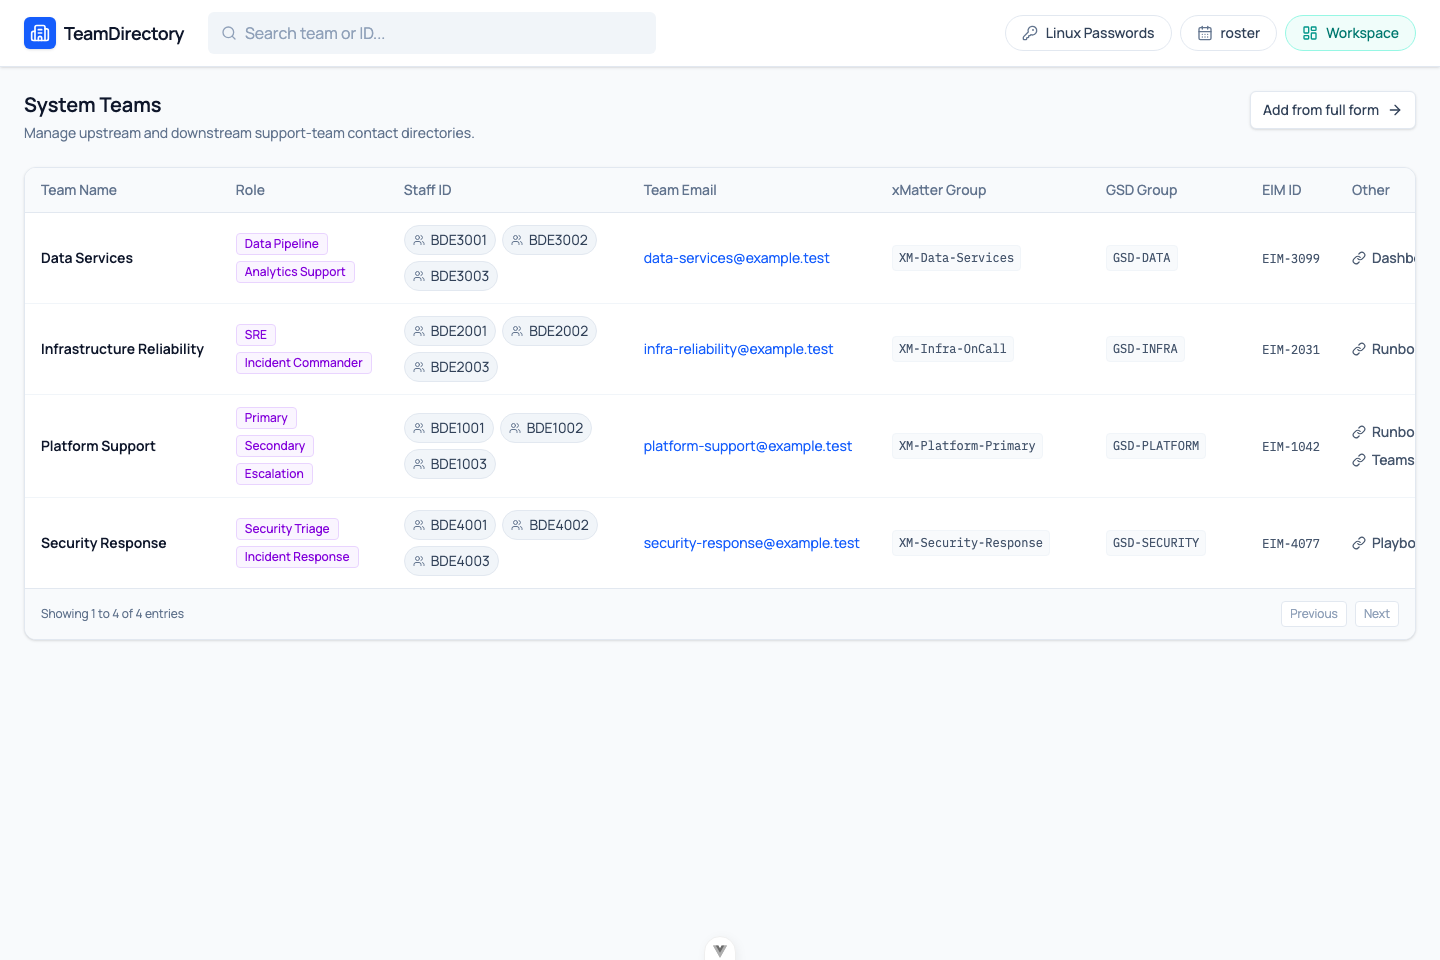
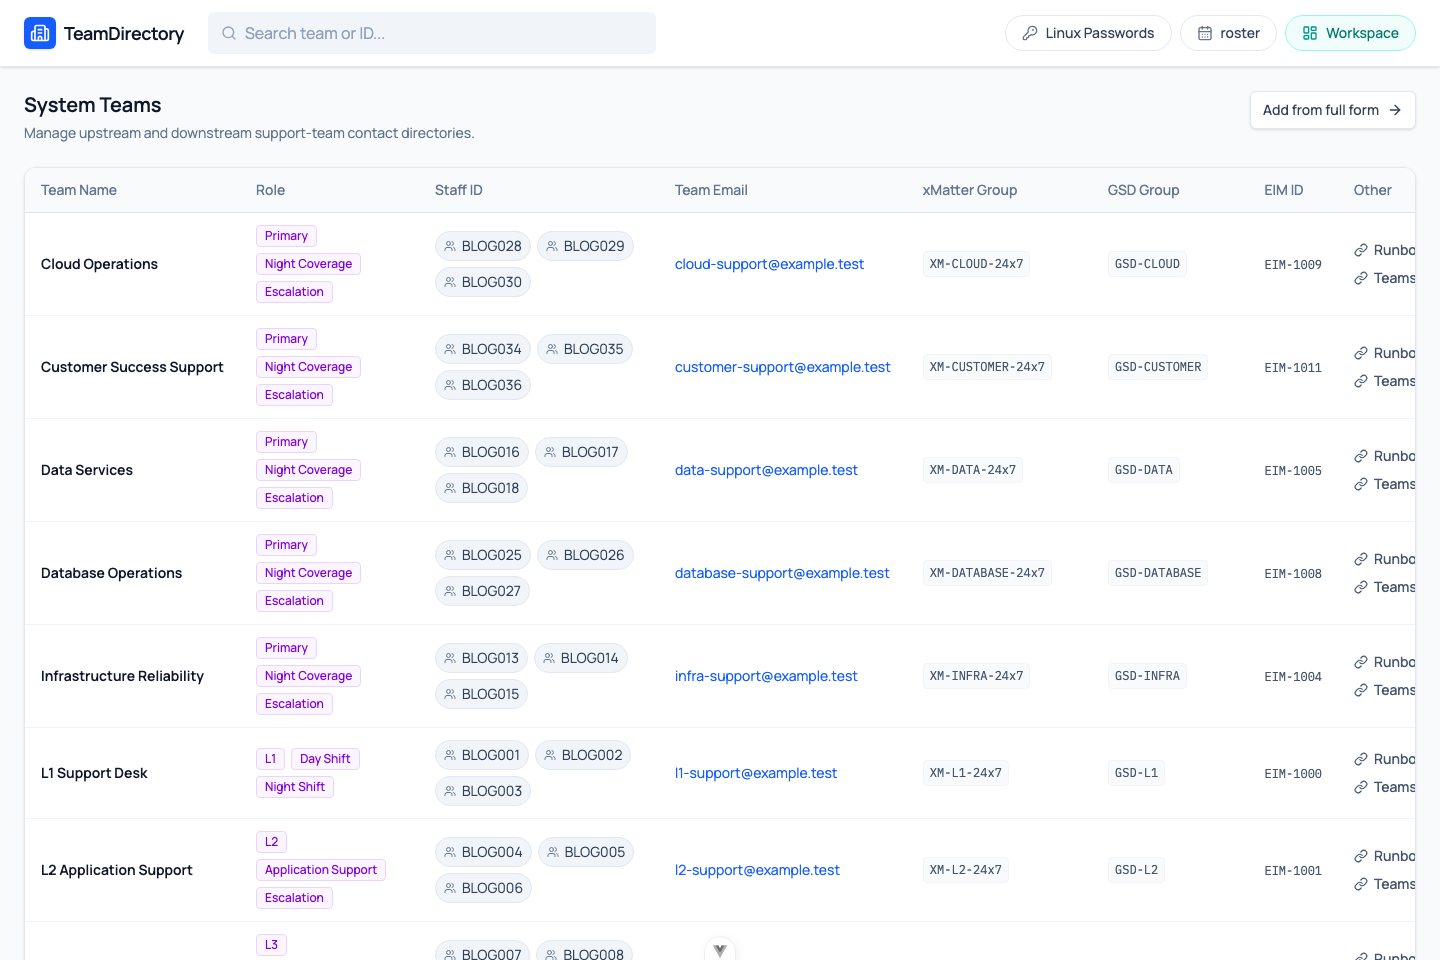
Polish support platform blog

diff --git a/docs/blog/support-platform-vibe-coding.zh-CN.md b/docs/blog/support-platform-vibe-coding.zh-CN.md
@@ -1,16 +1,16 @@
-# 🛡 用 100% Vibe Coding 做了一个值班排班展示平台
+# 🛡 Support Platform：值班排班展示平台的产品与工程实践
 
 > 从“谁今天值班？”到“打开看板就知道”：一个面向技术支持、运维、平台团队和任何固定值班团队的排班平台实践。
 
-![公开排班看板](/Users/lzn/.codex/worktrees/3884/support/docs/assets/blog/support-platform-vibe-coding/public-viewer.png)
+![公开排班看板](../assets/blog/support-platform-vibe-coding/public-viewer.png)
 
 ## 简介
 
-如果你的团队也有固定技术支持、On-call、二线支持、升级处理人，应该对这些场景很熟：排班表散落在 Excel、聊天群、Wiki；临时换班靠口头同步；外部同事想找支持人时，不知道看哪一个版本；月底复盘时，又很难判断排班是否真的完整。
+如果你的团队也有固定技术支持、On-call、二线支持或升级处理人，应该对这些场景很熟：排班表散落在 Excel、聊天群、Wiki；临时换班靠口头同步；外部同事想找支持人时，不知道看哪一个版本；月底复盘时，又很难判断排班是否真的完整。
 
 所以我做了一个 **Support Platform**：一个完整的值班排班管理与公开展示平台。它既能给所有人看“今天谁值班”，也能给管理员维护团队、人员、班次、月度排班、联系人信息和校验问题。
 
-更有意思的是，这个产品是 **100% vibe coding** 做出来的。不是“先写三个月详细方案再动手”，而是围绕真实痛点，一边对话、一边设计、一边实现、一边用浏览器验证。需求从一句“我们需要一个排班展示平台”开始，最后长成了一个有公开看板、排班工作台和自动化测试的完整系统。🚀
+> 说明：这个产品的 UI 设计、代码实现、文档、测试，以及这篇博客本身，都由 AI 生成并在人工审阅下迭代完成。下面主要聊产品能力、工程实现和验证链路。
 
 ## 为什么需要这样的平台？
 
@@ -28,21 +28,21 @@
 
 ### 1. 公开排班看板：不用登录也能回答“今天找谁”
 
-公开看板按团队展示当天值班覆盖，并带有日期、时区和当前时间线。对其它部门来说，它就是一个统一入口：不用翻群消息，不用问“最新版排班表在哪”，打开页面就能看到当前应该找谁。
+公开看板按团队展示当天值班覆盖，并带有日期、时区和当前时间线。新的演示数据里，L1、L2、L3 以及多个支持团队都有白班和夜班覆盖，保证一天 24 小时都能看到当前负责人。对其它部门来说，它就是一个统一入口：不用翻群消息，不用问“最新版排班表在哪”，打开页面就能看到当前应该找谁。
 
-![公开排班看板](/Users/lzn/.codex/worktrees/3884/support/docs/assets/blog/support-platform-vibe-coding/public-viewer.png)
+![公开排班看板](../assets/blog/support-platform-vibe-coding/public-viewer.png)
 
 ### 2. 月度排班：像表格一样直观，但背后是结构化数据
 
 月度排班页面保留了大家熟悉的表格心智：左边是人员和团队，右边是日期格子，班次 code 用不同颜色呈现。管理员可以导入、复制上月、导出、保存修改，也能直接看到校验提醒。
 
-![月度排班](/Users/lzn/.codex/worktrees/3884/support/docs/assets/blog/support-platform-vibe-coding/monthly-roster-planner.png)
+![月度排班](../assets/blog/support-platform-vibe-coding/monthly-roster-planner.png)
 
 ### 3. 联系人目录：排班之外，还要知道怎么升级
 
 很多支持场景里，“谁值班”只是第一步。真正处理问题时，还需要团队邮箱、xMatter group、GSD group、EIM ID、Runbook、Teams Channel 等信息。联系人目录把这些信息放到一个独立入口，让跨部门协作更顺。
 
-![联系人目录](/Users/lzn/.codex/worktrees/3884/support/docs/assets/blog/support-platform-vibe-coding/contact-information.png)
+![联系人目录](../assets/blog/support-platform-vibe-coding/contact-information.png)
 
 ## 实现方案
 
@@ -72,9 +72,32 @@ Support Platform
     └── Playwright smoke and regression tests
 ```
 
-## 自动化测试：把 Vibe Coding 变成可回归流程
+## GitHub 链接
 
-这次开发里，自动化测试不是最后补上的“保险丝”，而是产品演进的一部分。我的目标很明确：AI 可以帮我更快做功能，但每个新功能都要能被后续自动化验证接住。
+项目按 superproject + submodule 的方式组织，方便前后端独立演进，也方便在父仓库里统一维护脚本、文档、自动化测试和截图资产。
+
+- 主仓库：[support-platform](https://github.com/yachi666/support-platform)
+- 后端服务：[support-roster-server](https://github.com/yachi666/support-roster-server)
+- 前端界面：[support-roster-ui](https://github.com/yachi666/support-roster-ui)
+- 自动化测试工程：[automationtest](https://github.com/yachi666/support-platform/tree/main/automationtest)
+- 博客与截图资产：[docs](https://github.com/yachi666/support-platform/tree/main/docs)
+
+## AI 工具链：从设计、编码到回归验证
+
+这部分不展开 AI 或 Agent 的基础概念。面向开发同学，更有价值的是看清楚工具在交付链路里的边界：哪些适合快速改动，哪些适合跨文件推进，哪些适合视觉资产，哪些适合把验证沉淀下来。
+
+- **Copilot CLI YOLO 模式**：用于推进明确的小改动、脚本调整和重复性代码修改，适合风险可控、反馈很快的任务。
+- **Codex CLI**：用于跨文件理解、实现方案拆解、前后端联动修改、文档整理和提交前检查。
+- **Codex + GPT image2**：当界面需要补充 UI 资源时，直接生成可用的视觉素材，例如 icon、占位图或轻量说明图，再放回前端资源体系里使用。
+- **Agent plugin `Superpower`**：用于把需求澄清、设计、测试驱动、调试和验证这些步骤显式化，避免只追求生成速度。
+- **Skills `frontend-design`**：用于约束前端体验，让界面符合排班管理这类内部工具的使用场景，而不是停留在“能显示”的状态。
+- **Playwright CLI + skills**：用于驱动真实浏览器做登录、跳转、截图、页面检查和回归脚本沉淀，让前端验证从一次性手工检查变成可重复资产。
+
+这套组合的价值不在于“用了多少 AI 工具”，而在于让设计、实现、素材、验证和文档进入同一条工程反馈链路。每个工具负责自己擅长的部分，最后由测试和浏览器结果来约束质量。
+
+## 自动化测试：把浏览器验证沉淀成回归资产
+
+这次开发里，自动化测试不是最后补上的“保险丝”，而是产品演进的一部分。后端用测试固定规则，前端用真实浏览器验证关键路径，然后把稳定路径沉淀到 Playwright，形成后续回归资产。
 
 后端开发更偏 **测试驱动**：接口、领域逻辑、权限边界、数据保存规则先通过单元测试和服务测试固定下来。比如排班保存、联系人信息创建、权限策略、导入导出这些逻辑，都适合在 Spring Boot 测试里直接验证。这样改实现时，不需要靠肉眼判断“应该没坏”，而是让测试告诉我们行为有没有变。
 
@@ -89,21 +112,7 @@ Support Platform
 - 📅 月度排班编辑、导入、复制上月等关键路径
 - ✅ 排班保存、导入导出和核心页面状态的回归场景
 
-后续新增功能也会沿用这个流程：**后端先用测试锁住规则，前端先用 AI 浏览器验证跑通体验，再把稳定路径沉淀成 Playwright 脚本**。这样 vibe coding 不只是快，还能持续可维护。
-
-## 100% Vibe Coding 是怎么工作的？
-
-这次最有意思的不是“AI 帮我补了几行代码”，而是整个产品推进方式变了。
-
-我的工作方式大概是这样：
-
-1. 先描述真实业务痛点，而不是先描述技术方案。
-2. 让 AI 帮忙把需求拆成页面、接口、数据模型和测试点。
-3. 每做完一个功能，就启动前后端，用浏览器走真实流程。
-4. 发现交互不自然、数据不可信、页面不好扫读，就继续调整。
-5. 最后把本地开发、截图、自动化测试和文档也纳入同一条工作流。
-
-这种方式特别适合内部工具：需求来自日常摩擦，产品目标很清楚，复杂度又主要藏在流程和数据一致性里。AI 不只是“代码生成器”，更像一个可以随时讨论产品、实现、测试和文档的 pair engineer。🙂
+后续新增功能也会沿用这个流程：**后端先用测试锁住规则，前端先用 AI 浏览器验证跑通体验，再把稳定路径沉淀成 Playwright 脚本**。这样新增功能不会只停留在“当前能跑”，而是留下可以复用的验证路径。
 
 ## 哪些团队可以复用？
 
@@ -119,10 +128,21 @@ Support Platform
 
 只要你的团队经常被问“今天谁负责？”、“这个问题应该升级给谁？”、“这个月排班有没有漏？”，这个平台就有价值。
 
+## 欢迎贡献和提出需求
+
+如果你所在团队也有类似的排班、值班、支持升级或跨部门协作场景，欢迎直接提需求或参与贡献：
+
+- 产品需求和使用场景可以提到：[support-platform issues](https://github.com/yachi666/support-platform/issues)
+- 后端接口、数据模型、权限和导入导出能力可以看：[support-roster-server](https://github.com/yachi666/support-roster-server)
+- 前端页面、交互、国际化和可视化体验可以看：[support-roster-ui](https://github.com/yachi666/support-roster-ui)
+- 浏览器回归、冒烟用例和测试数据生命周期可以从：[automationtest](https://github.com/yachi666/support-platform/tree/main/automationtest) 开始
+
+特别欢迎这几类反馈：不同部门的值班模型、审批/换班流程、通知集成、更多时区场景、权限边界、导入导出格式，以及真实团队在落地时遇到的维护成本问题。
+
 ## 最后
 
 这个产品最大的收益不是替代一张 Excel，而是让值班信息从“人肉同步”变成“可靠系统”。
 
 对使用者来说，它提供一个清晰入口；对管理员来说，它提供结构化维护和校验；对其它部门来说，它提供可复制的值班协作模式。
 
-而对我来说，它也是一次很好的实践：**当需求清晰、反馈及时、验证自动化，100% vibe coding 真的可以把一个内部工具从想法推进到可用产品。** ✨
+而对我来说，它也是一次很好的实践：当需求清晰、反馈及时、验证自动化，内部工具可以很快从想法沉淀成可用系统。✨

diff --git a/docs/blog/support-platform-vibe-coding.en.md b/docs/blog/support-platform-vibe-coding.en.md
@@ -1,8 +1,8 @@
-# 🛡 I Built an On-Call Roster Platform with 100% Vibe Coding
+# 🛡 Support Platform: Building an On-Call Roster Platform
 
 > From “Who is on support today?” to “Open the dashboard”: a lightweight product story for teams that run recurring support rotations.
 
-![Public roster viewer](/Users/lzn/.codex/worktrees/3884/support/docs/assets/blog/support-platform-vibe-coding/public-viewer.png)
+![Public roster viewer](../assets/blog/support-platform-vibe-coding/public-viewer.png)
 
 ## Introduction
 
@@ -12,7 +12,7 @@ That works for a while. Then the team grows, rotations span time zones, support 
 
 So I built **Support Platform**, a full-stack on-call roster management and display system. It has a public viewer for “who is covering now?” and an authenticated workspace for managing teams, staff, shift definitions, monthly rosters, imports, exports, and contact information.
 
-And yes: this was built with **100% vibe coding**. Not as a toy demo, but as a real internal tool shaped through conversation, fast implementation, browser verification, and repeated product iteration. 🚀
+> Disclosure: the UI design, implementation, documentation, tests, and this blog post were generated by AI and iterated under human review for requirements, technical trade-offs, and acceptance. The rest of this post focuses on the product, engineering implementation, and verification loop.
 
 ## The Problem
 
@@ -30,21 +30,21 @@ The goal was not to build “a prettier spreadsheet.” The goal was to turn ros
 
 ### 1. Public Viewer: answer “who is on support?” without login
 
-The public viewer shows teams, daily coverage, date controls, timezone controls, and a live timeline. For partner teams, this becomes the front door: open the page, find the team, contact the current support owner.
+The public viewer shows teams, daily coverage, date controls, timezone controls, and a live timeline. In the refreshed demo data, L1, L2, L3, and multiple support teams have both day and night shifts, so the page shows 24-hour coverage across the full screen. For partner teams, this becomes the front door: open the page, find the team, contact the current support owner.
 
-![Public roster viewer](/Users/lzn/.codex/worktrees/3884/support/docs/assets/blog/support-platform-vibe-coding/public-viewer.png)
+![Public roster viewer](../assets/blog/support-platform-vibe-coding/public-viewer.png)
 
 ### 2. Monthly Planner: spreadsheet familiarity, structured data underneath
 
 The monthly roster planner keeps the familiar grid interaction: people and teams on the left, dates across the top, shift codes in colored cells. Under the surface, the data is structured, validated, exported, imported, and shared through APIs.
 
-![Monthly roster planner](/Users/lzn/.codex/worktrees/3884/support/docs/assets/blog/support-platform-vibe-coding/monthly-roster-planner.png)
+![Monthly roster planner](../assets/blog/support-platform-vibe-coding/monthly-roster-planner.png)
 
 ### 3. Contact Directory: support is more than a name
 
 When an incident happens, knowing the on-call person is only step one. Teams also need escalation groups, service desk groups, EIM IDs, runbooks, and communication channels. The contact directory brings those details into the same support workflow.
 
-![Contact directory](/Users/lzn/.codex/worktrees/3884/support/docs/assets/blog/support-platform-vibe-coding/contact-information.png)
+![Contact directory](../assets/blog/support-platform-vibe-coding/contact-information.png)
 
 ## Implementation
 
@@ -74,9 +74,32 @@ Support Platform
     └── Playwright smoke and regression tests
 ```
 
-## Automated Testing: Turning Vibe Coding into a Regression Loop
+## GitHub Links
 
-Automation was not an afterthought in this project. It was part of the product workflow from the beginning. The idea was simple: AI can help move faster, but every new capability should leave behind a repeatable way to prove it still works.
+The project is organized as a superproject with backend and frontend submodules. That keeps the application parts independent while the parent repository owns scripts, documentation, automation tests, and blog assets.
+
+- Main repository: [support-platform](https://github.com/yachi666/support-platform)
+- Backend service: [support-roster-server](https://github.com/yachi666/support-roster-server)
+- Frontend app: [support-roster-ui](https://github.com/yachi666/support-roster-ui)
+- Automation test project: [automationtest](https://github.com/yachi666/support-platform/tree/main/automationtest)
+- Blog and screenshot assets: [docs](https://github.com/yachi666/support-platform/tree/main/docs)
+
+## AI Toolchain: Design, Coding, Assets, and Verification
+
+This section assumes the audience is already familiar with AI coding tools and agents. The interesting part is not the concept of an agent, but where each tool fits in the delivery loop: fast edits, cross-file implementation, UI assets, browser verification, and regression coverage.
+
+- **Copilot CLI YOLO mode**: useful for well-scoped edits, script changes, and repetitive code updates where the feedback loop is short and the risk is contained.
+- **Codex CLI**: used for cross-file understanding, implementation breakdowns, frontend/backend coordination, documentation updates, and pre-commit checks.
+- **Codex + GPT image2**: used to generate UI assets directly when the interface needed them, such as icons, placeholders, or lightweight explanatory visuals that could be brought back into the frontend asset system.
+- **Agent plugin `Superpower`**: used to make requirement clarification, design, test-driven work, debugging, and verification explicit instead of optimizing only for generation speed.
+- **Skills `frontend-design`**: used to keep the frontend experience aligned with the actual usage context of an internal roster management tool.
+- **Playwright CLI + skills**: used to drive a real browser for login, navigation, screenshots, page checks, and regression-script extraction, so frontend validation becomes a repeatable asset rather than a one-off manual pass.
+
+The point of this toolchain is not the number of AI tools involved. The point is that design, implementation, assets, verification, and documentation stay in the same engineering feedback loop, with tests and browser results acting as the quality boundary.
+
+## Automated Testing: Turning Browser Checks into Regression Assets
+
+Automation was not an afterthought in this project. The backend tests lock down rules, browser checks validate workflows, and stable paths are promoted into Playwright regression coverage.
 
 Backend development follows a more **test-driven** rhythm. APIs, domain rules, persistence behavior, and permission boundaries are pinned down with unit and service tests. Roster saving, contact creation, import/export behavior, and workspace access rules are the kind of behaviors that should be protected by backend tests before the UI ever gets involved.
 
@@ -91,19 +114,7 @@ Stable browser checks are then promoted into the standalone `automationtest/` pr
 - 📅 Monthly roster editing, import, export, and previous-month copy flows
 - ✅ Roster persistence, import/export, and core page-state regression scenarios
 
-New features follow the same pattern: **backend tests lock down the rules, AI browser testing validates the experience, and stable paths become Playwright scripts for future regression runs**. That is what makes vibe coding useful beyond the first burst of speed.
-
-## What “100% Vibe Coding” Meant Here
-
-For this project, vibe coding did not mean randomly generating code and hoping for the best. It meant keeping the feedback loop extremely tight:
-
-1. Start from the real workflow pain, not from a technical abstraction.
-2. Shape the product through conversation: pages, APIs, data models, and workflow rules.
-3. Implement a slice, start the local stack, and verify it in the browser.
-4. Adjust the interaction when the page feels hard to scan or the data story feels weak.
-5. Keep tests, screenshots, local scripts, and documentation in the same delivery loop.
-
-That style works especially well for internal tools. The users are close, the workflows are concrete, and the value is easy to validate: can people find the current support owner, can admins maintain the month, and can the system catch bad roster data before it causes confusion?
+New features follow the same pattern: **backend tests lock down the rules, AI browser testing validates the experience, and stable paths become Playwright scripts for future regression runs**. That makes each feature easier to change later because the verification path is explicit.
 
 ## Who Else Could Use This?
 
@@ -119,10 +130,21 @@ Although this started as a technical support roster, the same pattern fits many 
 
 If your team keeps answering “who is responsible today?”, “where is the escalation contact?”, or “is next month’s roster complete?”, this pattern is probably reusable.
 
+## Contributions and Feature Requests
+
+If your team has a similar rotation, on-call, escalation, or cross-department support workflow, feature requests and contributions are welcome:
+
+- Product requirements and usage scenarios: [support-platform issues](https://github.com/yachi666/support-platform/issues)
+- Backend APIs, data models, permissions, imports, and exports: [support-roster-server](https://github.com/yachi666/support-roster-server)
+- Frontend pages, interactions, i18n, and visual experience: [support-roster-ui](https://github.com/yachi666/support-roster-ui)
+- Browser regression, smoke tests, and test-data lifecycle: [automationtest](https://github.com/yachi666/support-platform/tree/main/automationtest)
+
+The most useful feedback would be concrete: different rotation models, handoff or swap workflows, notification integrations, multi-time-zone requirements, permission boundaries, import/export formats, and the operational cost of keeping roster data fresh.
+
 ## Closing
 
 The real win is not replacing a spreadsheet. The real win is turning support coverage into a reliable, visible, validated workflow.
 
 For viewers, it is one place to find the current owner. For admins, it is a structured workspace. For other departments, it is a pattern they can reuse for their own rotations.
 
-And for me, it was a useful reminder: when the problem is clear, the feedback loop is fast, and browser verification is part of the flow, **100% vibe coding can move an internal product from idea to usable system surprisingly quickly.** ✨
+For me, it was a useful reminder: when the problem is clear, the feedback loop is fast, and browser verification is part of the flow, an internal tool can move from idea to usable system quickly without losing engineering discipline. ✨
